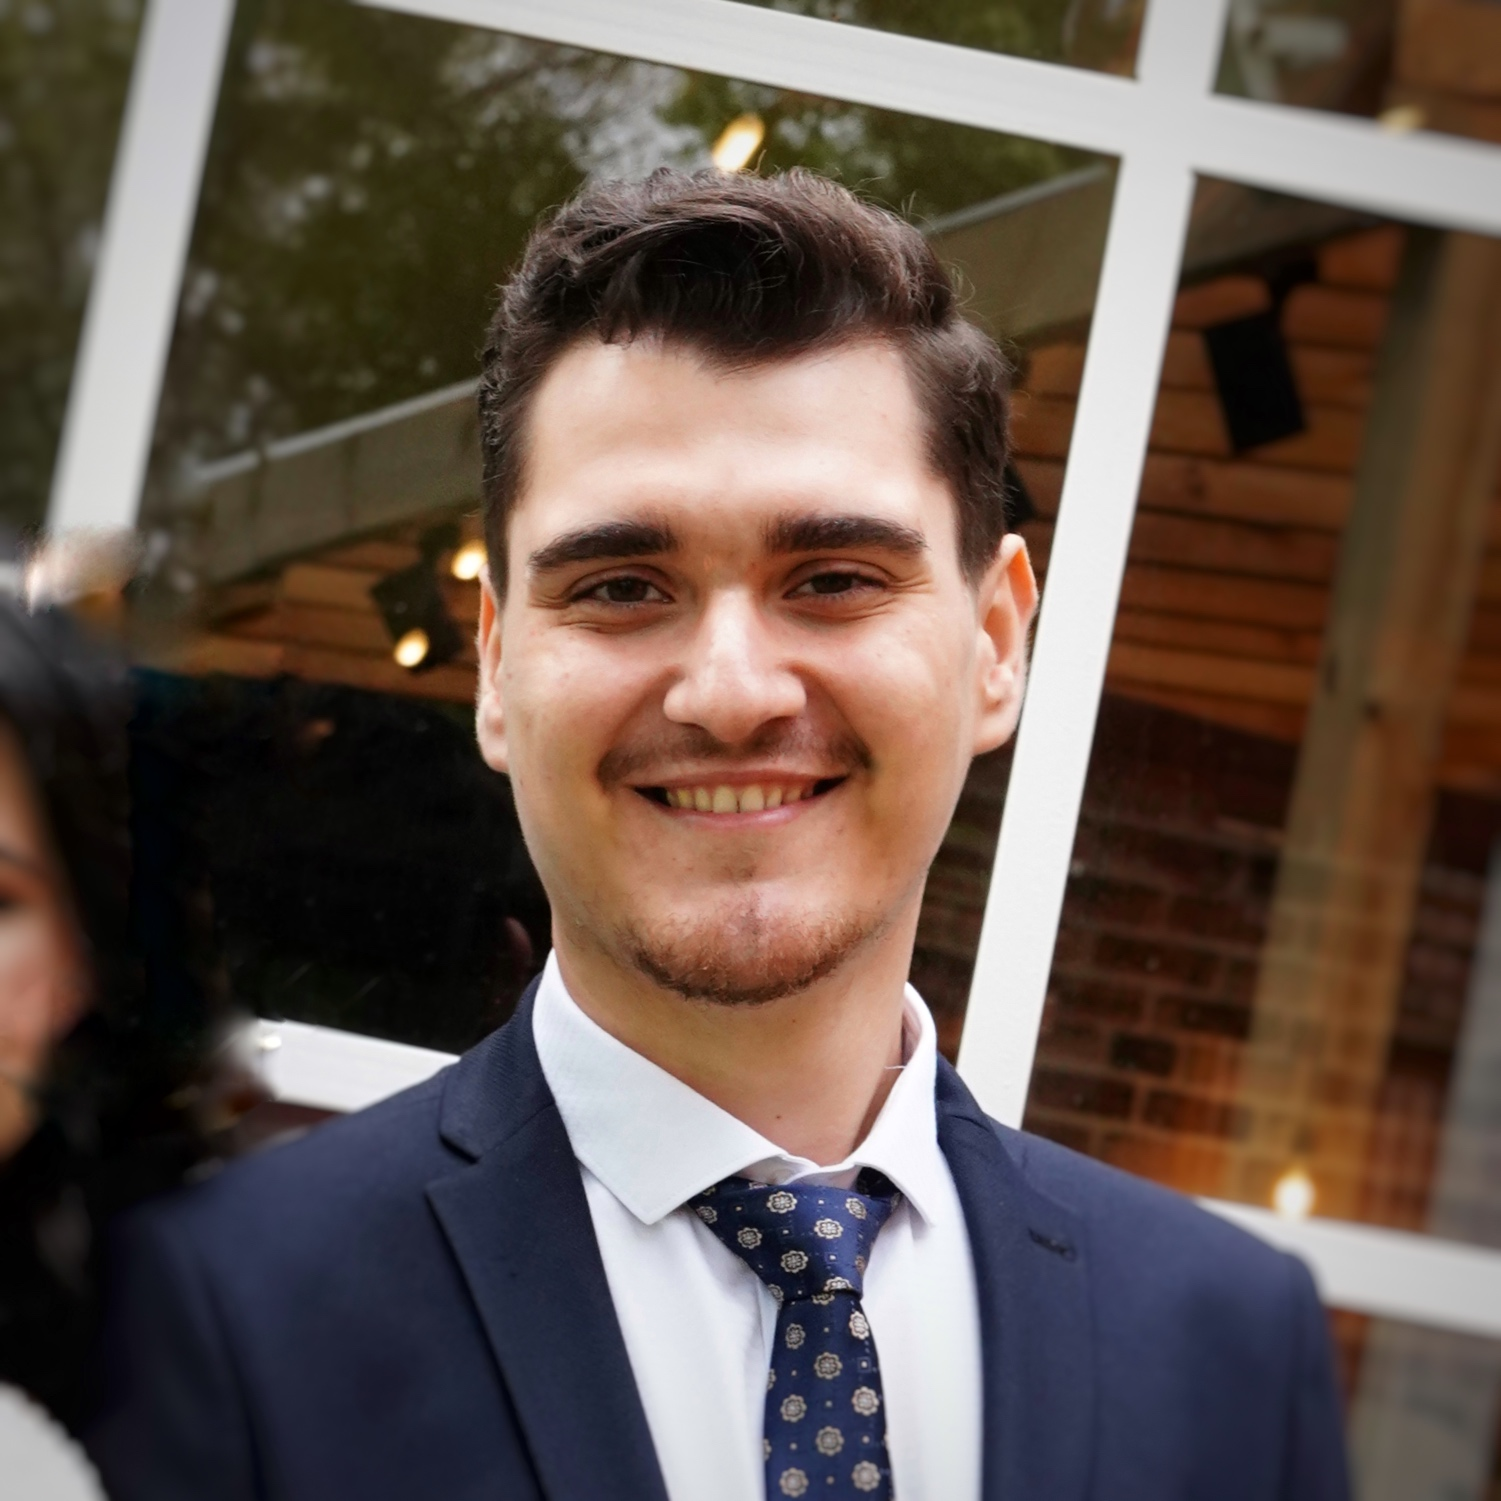
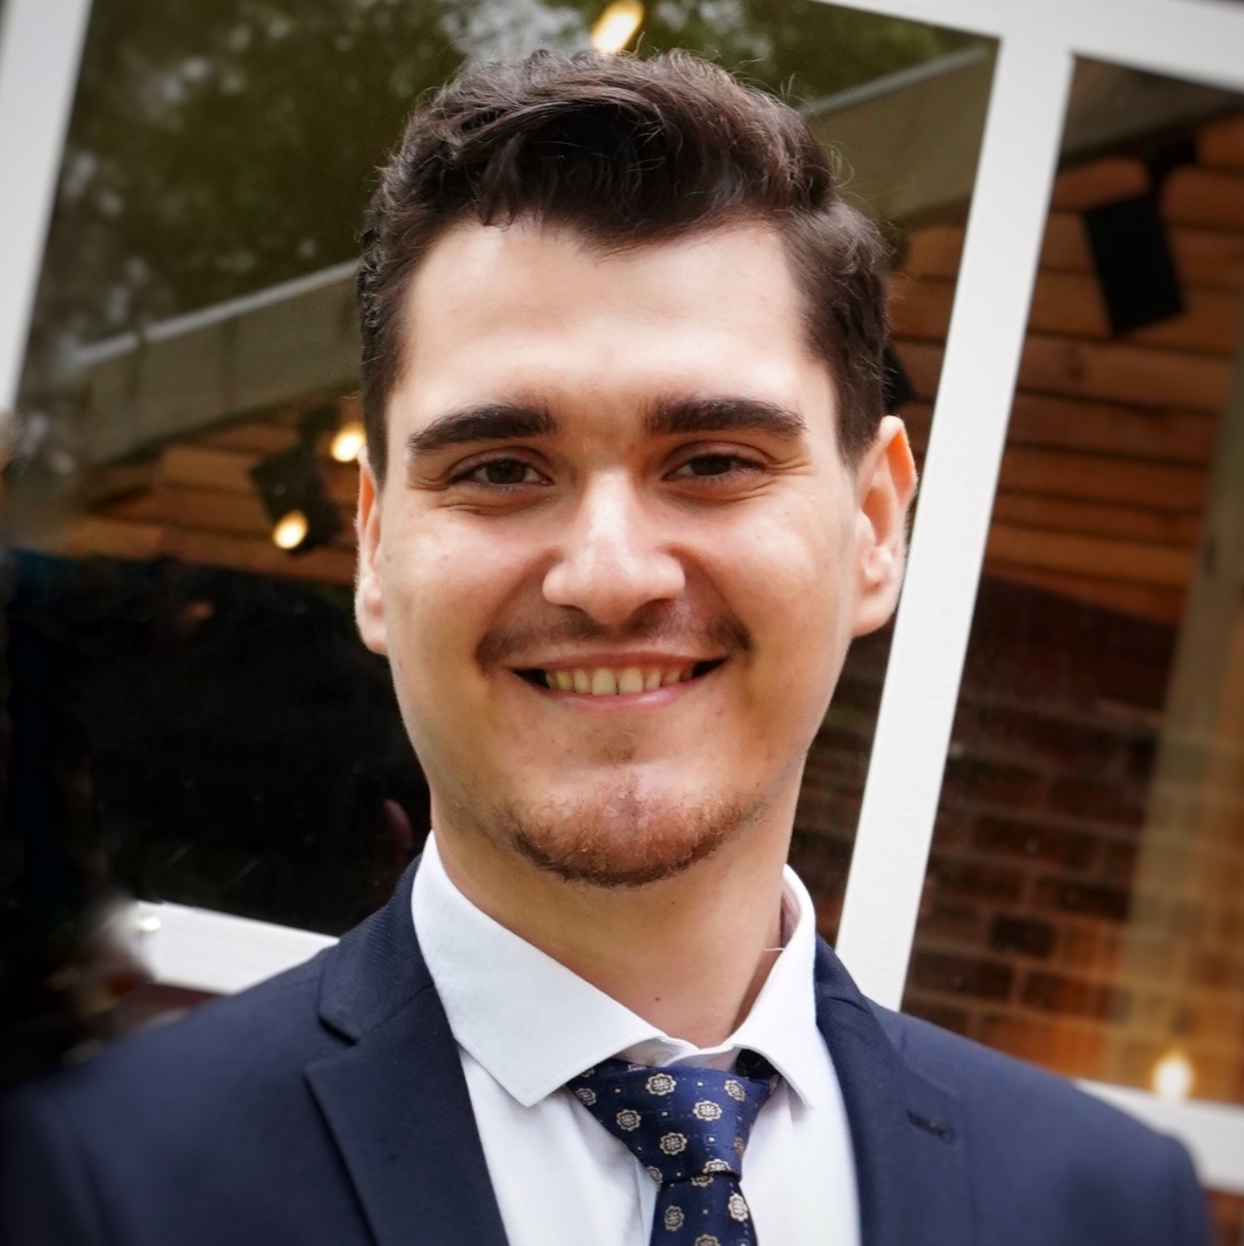
updated

diff --git a/_sass/_variables.scss b/_sass/_variables.scss
@@ -64,7 +64,7 @@ $primary-color              : $darker-gray;;
 $success-color              : #62c462;
 $warning-color              : #f89406;
 $danger-color               : #ee5f5b;
-$info-color                 : $lighter-gray;
+$info-color                 : #3b405d;
 
 /* brands */
 $behance-color              : #1769FF;

diff --git a/_sass/_navigation.scss b/_sass/_navigation.scss
@@ -175,7 +175,7 @@
 .greedy-nav {
   position: relative;
   min-width: 250px;
-  background: #3b405d;
+  background: $lighter-gray;
 
   a {
     display: block;
